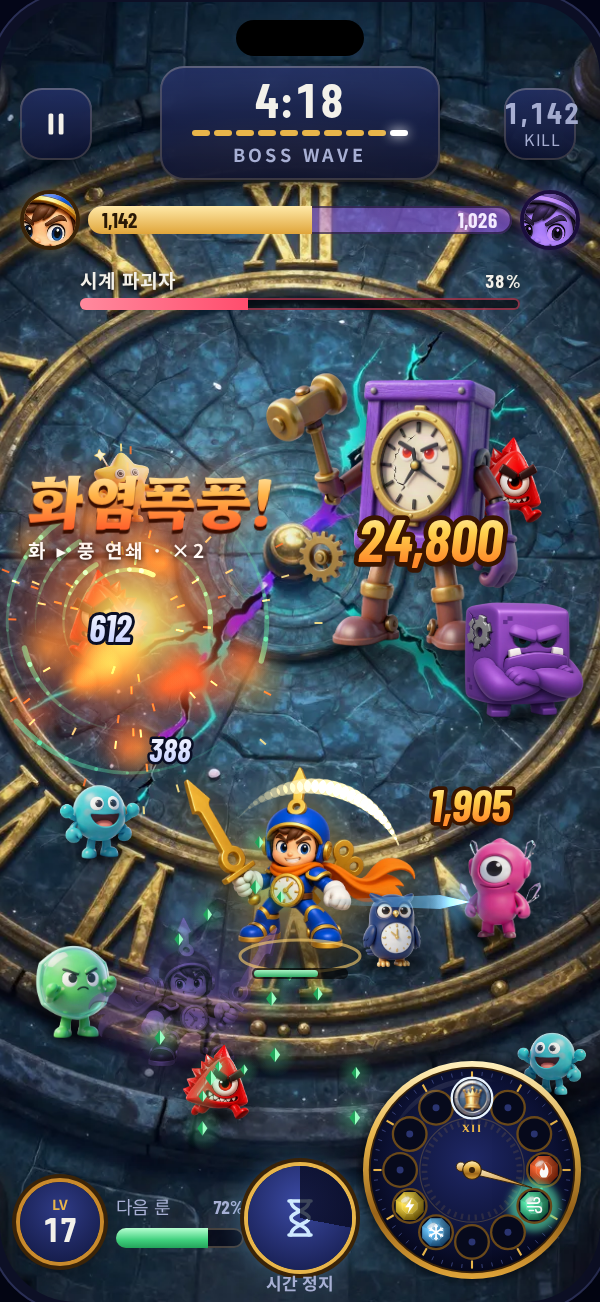
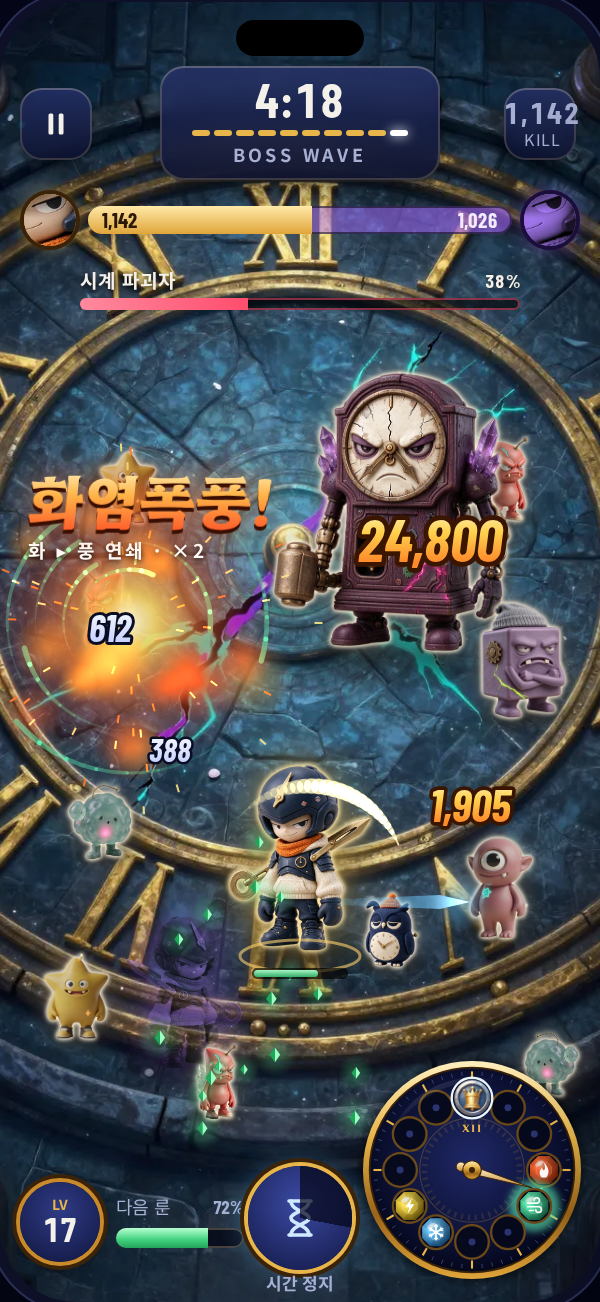
Apply 2025-26 character trends: Chrono Pop art-toy redesign (v5)
- Trend analysis (tactile minimalism, expressive geometry, designer
  art toys, streetwear fashion) and new character rules in docs/03
- New matte art-toy cast: Secon, 5 glitch monsters, boss Breaker,
  pet Tock, Nora; in-game readability outline for muted sprites
- Mockups and screenshots refreshed

Claude-Session: https://claude.ai/code/session_01XfF8MVm5nN1yeBzJuJkyAC

diff --git a/docs/design/mockups.html b/docs/design/mockups.html
@@ -49,6 +49,7 @@ figure.shot figcaption span { font-size: 13px; color: var(--text-2); }
 .abs { position: absolute; z-index: 3; }
 .num { font-family: var(--f-num); font-weight: 700; font-variant-numeric: tabular-nums; letter-spacing: .02em; }
 .spr { position: absolute; transform: translate(-50%, -100%); filter: drop-shadow(0 6px 6px rgba(0,0,0,.55)); max-width: none; }
+.layer .spr { filter: drop-shadow(0 0 1px #FFF3DC) drop-shadow(0 0 1px #FFF3DC) drop-shadow(0 0 6px rgba(255,236,200,.35)) drop-shadow(0 5px 5px rgba(0,0,0,.6)); }
 .spr.flip { transform: translate(-50%, -100%) scaleX(-1); }
 .ground { position: absolute; transform: translate(-50%, -50%); border-radius: 50%; background: radial-gradient(closest-side, rgba(0,0,0,.55), transparent); pointer-events: none; }
 
@@ -333,9 +334,9 @@ figure.shot figcaption span { font-size: 13px; color: var(--text-2); }
   <header class="top">
     <svg class="mark" data-logo viewBox="0 0 100 100" aria-label="Chrono Knight 로고"></svg>
     <div class="ht">
-      <div class="eyebrow">화면 디자인 시안 · v4 · 캐릭터 재디자인</div>
+      <div class="eyebrow">화면 디자인 시안 · v5 · 트렌드 반영 "Chrono Pop"</div>
       <h1>CHRONO KNIGHT</h1>
-      <p class="lede">캐릭터를 만화 마스코트 스타일(2~2.5등신, 굵은 실루엣, 3색 규칙, 표정 중심)로 전면 재디자인한 버전입니다. 배경·스토리 삽화는 페인터리 톤을 유지하고, UI는 황동 시계 장치 + 원소 네온 스타일을 그대로 씁니다.</p>
+      <p class="lede">2025~2026 트렌드(촉각적 미니멀리즘 · 디자이너 아트토이 · 스트리트웨어 패션 · 절제된 배색)를 반영해 캐릭터를 다시 디자인했습니다. 광택 플라스틱 대신 무광 비닐·니트·펠트·브러시드 황동 재질, 원색 대신 톤 다운된 2색 + 포인트 1색, 뻔한 웃음 대신 삐딱하고 감정 있는 표정을 씁니다.</p>
     </div>
   </header>
 
@@ -438,8 +439,8 @@ figure.shot figcaption span { font-size: 13px; color: var(--text-2); }
             <span class="pill"><svg class="gem" data-res="crystal" viewBox="0 0 24 24"></svg><span class="num">1,250</span><span class="plus">+</span></span>
           </div>
           <div class="abs tabs glass"><span>오브</span><span>룬</span><span class="on">펫</span></div>
-          <div class="abs feature"><img src="art/pet_whale.webp" alt="레전드 펫 크로노베일"></div>
-          <div class="abs pickup glass ornate"><div><span class="k">PICK UP · 레전드</span><b>크로노베일 · 하늘고래</b><span class="d">액티브: 전장 2초 정지 · 정지 중 피해 ×2</span></div><span class="st">★5</span></div>
+          <div class="abs feature"><img src="art/pet_owl.webp" alt="펫 톡"></div>
+          <div class="abs pickup glass ornate"><div><span class="k">PICK UP · 유니크</span><b>톡 · 졸린 시계 부엉이</b><span class="d">액티브: 바늘을 1칸 앞으로 당김 · 12시 효과 +25%</span></div><span class="st">★4</span></div>
           <div class="abs pity glass">
             <div class="line"><span>레전드 확정까지</span><span><b class="num" style="color:var(--g-l)">31</b> 회</span></div>
             <div class="bar"><b style="width:61%;background:linear-gradient(90deg,#8a4fe0,#FFB23F)"></b></div>
@@ -470,7 +471,7 @@ figure.shot figcaption span { font-size: 13px; color: var(--text-2); }
           </div>
           <div class="abs rewards">
             <div class="gf l"><img src="art/orb_sun.webp" alt="태양 오브"><b class="cnt num">1</b></div>
-            <div class="gf u"><img src="art/pet_moonfox.webp" alt="달 여우"><b class="cnt num">1</b></div>
+            <div class="gf u"><img src="art/pet_owl.webp" alt="톡"><b class="cnt num">1</b></div>
             <div class="gf r"><img src="art/orb_storm.webp" alt="폭풍 오브"><b class="cnt num">2</b></div>
             <div class="gf n"><svg data-res="gold" viewBox="0 0 24 24" style="width:60%;height:60%"></svg><b class="cnt num">4.2K</b></div>
           </div>
@@ -562,7 +563,7 @@ figure.shot figcaption span { font-size: 13px; color: var(--text-2); }
 
   <section>
     <h2>캐릭터 · 몬스터 · 펫 · 오브</h2>
-    <p class="sec-note">만화 마스코트 스타일 캐스트. 주인공은 ElevenLabs(gpt-image-2), 나머지는 Higgsfield(z_image)로 생성하고 rembg로 배경을 제거했습니다. 원칙: 2~2.5등신 · 캐릭터당 3색 · 고유 돌출부 1개 · 모두 눈이 보이는 얼굴.</p>
+    <p class="sec-note">"Chrono Pop" 캐스트. Higgsfield Seedream 5.0 / z_image로 생성, rembg로 배경 제거. 규칙: 무광 촉감 재질 · 톤 2색 + 포인트 1색 · 삐딱한 표정 · 스트리트웨어 레이어 · 비대칭 1곳. 코어 몬스터와 펫 3종(기어윔·루나·크로노베일), 오브 아이콘은 같은 규칙으로 재제작 대기 중입니다.</p>
     <div class="gallery" data-gallery></div>
   </section>
 
@@ -614,7 +615,7 @@ figure.shot figcaption span { font-size: 13px; color: var(--text-2); }
           <div><div class="gf r"><img src="art/orb_moon.webp" alt=""></div>레어</div>
           <div><div class="gf u"><img src="art/orb_abyss.webp" alt=""></div>유니크</div>
           <div><div class="gf l"><img src="art/orb_sun.webp" alt=""></div>레전드</div>
-          <div><div class="gf h"><img src="art/pet_whale.webp" alt=""></div>히든</div>
+          <div><div class="gf h"><img src="art/boss_clockbreaker.webp" alt=""></div>히든</div>
           <div><div class="gf x"><img src="art/urune_U12.webp" alt="" style="width:100%;height:100%"></div>유일</div>
         </div>
       </div>
@@ -929,7 +930,7 @@ figure.shot figcaption span { font-size: 13px; color: var(--text-2); }
     ["mon_nova", 64, 262, 40, false], ["mon_spike", 252, 262, 46, true],
     ["mon_block", 262, 360, 62, true], ["mon_spike", 54, 330, 48, false],
     ["mon_bubble", 50, 430, 40, false], ["mon_shard", 250, 470, 54, true],
-    ["mon_bubble", 276, 548, 34, true], ["mon_core", 38, 520, 50, false],
+    ["mon_bubble", 276, 548, 34, true], ["mon_nova", 38, 520, 46, false],
     ["mon_spike", 108, 560, 40, true], ["mon_nova", 214, 590, 34, false]
   ];
   function battleLayer(el) {
@@ -941,7 +942,7 @@ figure.shot figcaption span { font-size: 13px; color: var(--text-2); }
       html += '<span class="ground" style="left:' + s[1] + 'px;top:' + (s[2] - 3) + 'px;width:' + w + 'px;height:' + (w * 0.28) + 'px"></span>';
       var st = 'left:' + s[1] + 'px;top:' + s[2] + 'px;height:' + s[3] + 'px;';
       if (s[5] === "shadow") st += 'opacity:.5;filter:grayscale(1) brightness(.5) sepia(1) hue-rotate(220deg) saturate(3) drop-shadow(0 0 10px rgba(166,107,255,.8));';
-      if (s[5] === "hero") st += 'filter:drop-shadow(0 0 10px rgba(255,210,110,.55)) drop-shadow(0 6px 6px rgba(0,0,0,.6));';
+      if (s[5] === "hero") st += 'filter:drop-shadow(0 0 1.2px #FFE9A8) drop-shadow(0 0 1.2px #FFE9A8) drop-shadow(0 0 12px rgba(255,210,110,.6)) drop-shadow(0 6px 6px rgba(0,0,0,.6));';
       html += '<img class="spr' + (s[4] ? ' flip' : '') + '" src="art/' + s[0] + '.webp" alt="" style="' + st + '">';
     });
     el.innerHTML = html;
@@ -980,17 +981,16 @@ figure.shot figcaption span { font-size: 13px; color: var(--text-2); }
 
   /* ---------- 갤러리 ---------- */
   var GAL = [
-    ["knight", "l", "세콘 · 초침 기사", "주인공. 초침 볏 · 태엽 열쇠 · 분침 대검 · 주황 스카프. 로열 블루/골드/오렌지.", true],
-    ["boss_clockbreaker", "h", "브레이커 · 시계 파괴자", "시대 1 보스. 금 간 괘종시계 얼굴, 망치 팔, 튀어나온 태엽.", false],
-    ["mon_spike", "n", "삐죽이", "▲ 돌진형 · 외눈 · 화난 눈썹"], ["mon_block", "n", "네모돌", "■ 탱커형 · 큰 턱 · 팔짱"],
-    ["mon_bubble", "n", "퐁퐁", "● 분열형 · 멍한 웃음"], ["mon_shard", "n", "쨍이", "◆ 원거리형 · 렌즈 외눈"],
-    ["mon_core", "n", "방패콩", "⬡ 지원형 · 보호막 · 겁쟁이"], ["mon_nova", "n", "펑스타", "✦ 자폭형 · 도화선"],
-    ["pet_owl", "u", "톡 · 크로노 부엉이", "유니크 펫 · 12시 칸 효과 +25%"], ["pet_moonfox", "u", "루나 · 달여우", "유니크 펫 · 월광 분신 소환"],
-    ["pet_gearwyrm", "u", "기어윔", "유니크 펫 · 톱니 브레스"], ["pet_whale", "l", "크로노베일 · 하늘고래", "레전드 펫 · 전장 2초 정지"],
-    ["orb_sun", "l", "정오의 태양 헬리오스", "레전드 오브 · 태양 계열"], ["orb_moon", "r", "반달 호위", "레어 오브 · 달 계열"],
-    ["orb_storm", "r", "천둥 왕관", "레어 오브 · 폭풍 계열"], ["orb_abyss", "u", "사건의 지평선", "유니크 오브 · 심연 계열"],
-    ["orb_gear", "m", "초승달 위성", "매직 오브 · 달 계열"], ["npc_nora", "r", "노라 · 시계공", "스토리 안내자 · 개그 담당"],
-    ["story_nora_illust", "n", "스토리 삽화 톤 (참고)", "컷신·로딩 일러스트는 이 페인터리 톤을 유지", true]
+    ["knight", "l", "세콘 · 초침 기사", "쿨한 척하지만 정 많은 꼬마 기사. 크림 니트 후디 + 잉크 네이비 갑주, 기울어진 초침 볏, 탠저린 니트 스카프.", true],
+    ["boss_clockbreaker", "h", "브레이커 · 시계 파괴자", "금 간 괘종시계 골렘. 스티커·용수철·자수정 돌기, 마젠타 균열.", false],
+    ["mon_spike", "n", "삐죽이", "짝눈 · 송곳니 · 짝짝이 운동화. 심술쟁이 돌진형"],
+    ["mon_block", "n", "네모돌", "비니 쓴 팔짱 큐브. 무표정 탱커"],
+    ["mon_bubble", "n", "퐁퐁", "반투명 젤리 · 분열 직전. 멍한 분열형"],
+    ["mon_shard", "n", "쨍이", "렌즈 외눈 · 수정 지느러미. 원거리형"],
+    ["mon_nova", "n", "펑스타", "도화선 달린 별. 광기의 자폭형"],
+    ["pet_owl", "u", "톡 · 졸린 시계 부엉이", "펠트 소재 · 니트 비니 · 배가 시계"],
+    ["npc_nora", "r", "노라 · 시계공", "올리브 작업 재킷 · 황동 고글 · 스패너. 수다쟁이 천재"],
+    ["story_nora_illust", "n", "스토리 삽화 톤 (참고)", "컷신·로딩 일러스트는 페인터리 톤 유지", true]
   ];
   var g = document.querySelector("[data-gallery]");
   if (g) g.innerHTML = GAL.map(function (x) {

diff --git a/docs/03-design-ux.md b/docs/03-design-ux.md
@@ -44,36 +44,38 @@
 
 ---
 
-## 1.5 캐릭터 디자인 가이드 (v4 — 만화 마스코트 스타일)
+## 1.5 캐릭터 디자인 가이드 (v5 — 트렌드 반영 "Chrono Pop")
 
-> 방향: **멋있음보다 "한눈에 알아보고 계속 보고 싶은" 캐릭터.** 굵은 실루엣, 큰 머리, 원색, 표정.
-> 참고한 감성: 닌텐도·세가·슈퍼셀 계열 캐주얼 게임의 마스코트형 캐릭터 (특정 캐릭터를 모방하지 않고 **원칙만** 차용).
-> 스토리 삽화·배경·로딩 일러스트는 기존 반실사 페인터리 톤 유지 가능.
+### 1.5.1 트렌드 분석 (2025~2026)
+| 트렌드 | 내용 | 적용 |
+|---|---|---|
+| **촉각적 미니멀리즘 (Tactile minimalism)** | 무게감·질감이 느껴지는 재질 + 단순한 구성. 작은 썸네일에서도 고급스러워 보임 — 2026 모바일 아트에서 가장 강한 흐름 | 번쩍이는 플라스틱 광택 금지 → **무광 소프트 비닐 · 니트 · 브러시드 황동** |
+| **표현적 기하학 (Expressive geometry)** | 형태 자체가 성격을 말하는 캐릭터 | 캐릭터마다 기본 도형 1개 + 비대칭 포인트 1개 |
+| **아트토이 / "못생긴 귀여움"** | 라부부·크라이베이비 등 디자이너 토이 열풍. 약간 삐딱하고 감정이 있는 얼굴이 수집욕을 자극 | 몬스터는 **작은 송곳니·짝눈·심술/멍한 표정**, 적도 "갖고 싶은" 수집형 |
+| **패션이 곧 캐릭터 (스트리트웨어)** | 슈퍼셀 mo.co 등 최신작은 캐릭터를 패션 브랜드처럼 다룸. 스킨이 매출·정체성의 중심 | 판타지 갑옷 + **후디·봄버·카고·하이탑 부츠·스티커** 레이어링 → 스킨 확장성 |
+| **캐릭터 = 브랜드 자산** | 표정 시트, 배경 스토리, 의상 변주까지 설계 | 캐릭터별 표정 5종 · 의상 3종 · 한 줄 성격 설정 |
 
-### 1.5.1 원칙
-| 원칙 | 기준 |
+**v4(이전)가 촌스러워 보인 원인**: ① 거울 같은 플라스틱 광택 ② 원색 그대로(빨강·파랑·노랑 100%) ③ 모두 같은 "활짝 웃는" 얼굴 ④ 좌우 대칭·정면 포즈 ⑤ 옷·재질 디테일 부재.
+
+### 1.5.2 규칙
+| 항목 | 규칙 |
 |---|---|
-| 비율 | 2~2.5등신. 머리·손·발을 크게, 몸통은 짧게 |
-| 실루엣 | 검은색으로 칠해도 누구인지 알 수 있어야 함(실루엣 테스트) — 캐릭터마다 **고유 돌출부 1개**(세콘: 초침 볏 + 태엽 열쇠) |
-| 색 | 캐릭터당 **주색 1 + 보조색 1 + 포인트색 1** (3색 규칙), 채도 높게 |
-| 도형 언어 | 주인공·펫 = 원·둥근 사각(친근), 적 = 삼각·날카로운 모서리(위협), 보스 = 큰 사각(육중) |
-| 얼굴 | 모든 캐릭터에 **눈이 보이는 얼굴**. 감정 5종(기본·기쁨·분노·놀람·기절) 스프라이트 제공 |
-| 재질 | 매끈한 비닐 토이 느낌의 3D 카툰 렌더, 부드러운 스튜디오 조명, 약한 외곽 림라이트 |
-| 게임 가독성 | 화면에서 40~60px로 줄어도 형태가 읽혀야 함 → 디테일보다 큰 형태 우선 |
+| 비율 | 2~2.5등신 유지 (가독성), 얼굴 이목구비는 **작고 단순하게** (점 눈·작은 입) |
+| 재질 | 무광 소프트 비닐 + 천(니트·패딩) + 브러시드 금속. 하이라이트는 넓고 부드럽게 |
+| 색 | **절제된 톤 2색 + 포인트 1색** (예: 잉크 네이비·크림 + 탠저린). 채도 100% 원색 금지 |
+| 표정 | 기본 표정은 "여유·시크·심술·멍" 계열. 과장된 웃음은 연출용 표정 시트에만 |
+| 포즈 | 3/4 각도, 무게중심 이동, 비대칭(한쪽 소매 걷음, 기울어진 볏 등) |
+| 패션 | 모든 인간형 캐릭터는 판타지 + 스트리트웨어 레이어 1개 이상 |
+| 렌더 | "프리미엄 피규어 제품 사진" 느낌 — 부드러운 확산광, 따뜻한 오프화이트 배경, 약한 접지 그림자 |
+| 인게임 가독성 | 톤 다운 색은 어두운 전장에 묻히므로 **전투 스프라이트에만 1~2px 크림색 외곽선 + 접지 그림자**, 주인공은 금빛 외곽 글로우 추가 |
 
-### 1.5.2 캐스트
-| 캐릭터 | 역할 | 핵심 특징 | 색 |
-|---|---|---|---|
-| **세콘 (초침 기사)** | 주인공 | 시계 문자판 창이 달린 둥근 투구 속 큰 눈, 초침 모양 볏, 짧은 주황 망토, 등의 태엽 열쇠, 분침 모양 대검 | 로열 블루 / 골드 / 오렌지 |
-| **노라** | 스토리 안내자 | 고글, 공구 앞치마, 곱슬 주황 머리, 태엽 드라이버 | 브라운 / 오렌지 / 민트 |
-| 삐죽이 (스파이크) | 돌진형 적 | 빨간 삼각 몸, 외눈, 화난 눈썹, 짧은 다리 | 레드 |
-| 네모돌 (블록) | 탱커형 적 | 보라 정육면체, 큰 턱, 팔짱 | 퍼플 |
-| 퐁퐁 (버블) | 분열형 적 | 청록 물방울, 멍한 웃음, 분열 중인 작은 방울 | 시안 |
-| 쨍이 (샤드) | 원거리 적 | 분홍 마름모, 렌즈 눈, 떠다님 | 핑크 |
-| 방패콩 (코어) | 지원형 적 | 초록 육각 너트, 보호막 방울, 겁먹은 표정 | 그린 |
-| 펑스타 (노바) | 자폭형 적 | 노란 별, 머리의 도화선, 광기 어린 웃음 | 옐로 |
-| 브레이커 (시계 파괴자) | 시대 1 보스 | 금 간 괘종시계 몸통 로봇, 화난 눈, 거대한 망치 팔 | 퍼플 / 브라스 |
-| 펫 4종 | 동료 | 부엉시계 · 태엽룡 · 달여우 루나 · 하늘고래 베일 — 모두 둥근 몸 + 큰 눈 | 각 1주색 |
+### 1.5.3 캐스트 (재정의)
+| 캐릭터 | 한 줄 성격 | 디자인 키 |
+|---|---|---|
+| **세콘** (주인공) | 쿨한 척하지만 정 많은 꼬마 기사 | 크림 후디 + 네이비 갑주, 기울어진 초침 볏, 탠저린 니트 스카프, 스케이트보드처럼 멘 태엽 열쇠 |
+| **노라** | 수다쟁이 천재 시계공 | 오버사이즈 작업 재킷, 고글, 스티커 붙은 공구함 |
+| 글리치 몬스터 6종 | "시간의 틈에서 나온 장난꾸러기 아트토이" | 기본 도형 몸 + 무광 파스텔/더스티 톤 + 네온 포인트, 작은 송곳니·짝눈 |
+| 펫 | 포근한 수집형 인형 | 펠트·플러시 재질, 무광 |
 
 ## 2. 디자인 토큰
 
@@ -221,7 +223,7 @@
 
 ---
 
-## 8. 화면 시안 (v4 — 만화 마스코트 캐릭터)
+## 8. 화면 시안 (v5 — "Chrono Pop" 트렌드 반영)
 
 - 인터랙티브 시안: [design/mockups.html](design/mockups.html) (브라우저로 열기, `design/art/` 이미지 사용)
 - 전체 개요: ![시안 개요](design/overview.jpg)
@@ -242,11 +244,11 @@
 
 | 단계 | 도구 | 비고 |
 |---|---|---|
-| 원화 생성 | 주인공: ElevenLabs `gpt-image-2` / 그 외: Higgsfield `z_image` (1장 0.15크레딧) | 캐릭터 공통 프롬프트: "chunky cartoon proportions, bold simple shapes, 3-color scheme, glossy clean vinyl-toy 3D cartoon render, soft studio lighting, saturated colors, thick readable silhouette, plain flat light grey background" / 배경·삽화: "stylized semi-realistic painterly" |
+| 원화 생성 | Higgsfield `seedream_5_0_flash`(1장 0.5크레딧, 참조 이미지 지원) · `z_image`(0.15) / 보조: Canva, ElevenLabs | 캐릭터 공통 프롬프트(v5): "collectible designer art toy figure, premium product photography, plain warm off-white seamless backdrop, soft diffused studio light, tactile matte soft-touch vinyl / knit / felt / brushed brass, no glossy plastic shine, curated muted palette with one accent, small simplified face, subtle asymmetry, streetwear layer" / 배경·삽화: "stylized semi-realistic painterly" |
 | 배경 제거 | 로컬 `rembg` (isnet-general-use) | 무료. Higgsfield 배경 제거는 1크레딧이라 사용하지 않음 |
 | 최적화 | Pillow → WebP (스프라이트 512px, 배경 720×1280) | 원본 PNG는 `design/art/_raw/`(git 제외) |
 | 흐름도 | Figma FigJam `generate_diagram` | |
-| 게임 적용 | 원화 → 방향별 스프라이트 시트(대기·이동·공격 4~6프레임)를 같은 프롬프트 + 참조 이미지로 추가 생성 | 게임 내에서는 기하학 이펙트(코드)와 합성 |
+| 게임 적용 | 원화 → Higgsfield `autosprite`(캐릭터 이미지 → 대기·이동·공격 스프라이트 시트 자동 생성) 또는 참조 이미지 기반 추가 생성 | 게임 내에서는 기하학 이펙트(코드)와 합성 |
 
 - **라이선스 체크(출시 전 필수)**: 생성 플랫폼의 상업 이용 조건(무료 플랜 포함 여부)을 확인하고, 필요 시 유료 플랜에서 최종 에셋을 재생성한다. 결과를 `LICENSES.md` 에 기록.
 - **일관성 유지**: 캐릭터별 "기준 원화"를 참조 이미지로 고정하고, 스킨·표정 변형은 참조 기반 편집으로 만든다.
